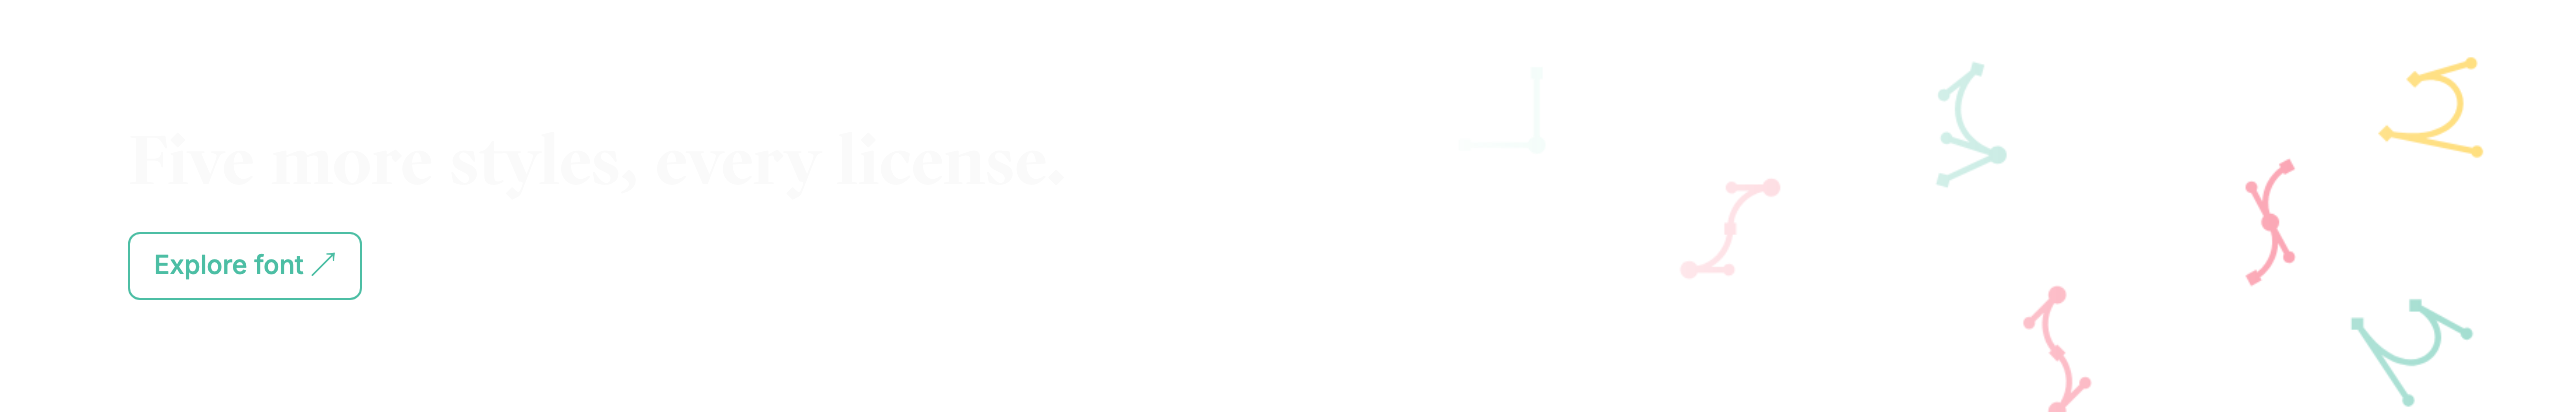
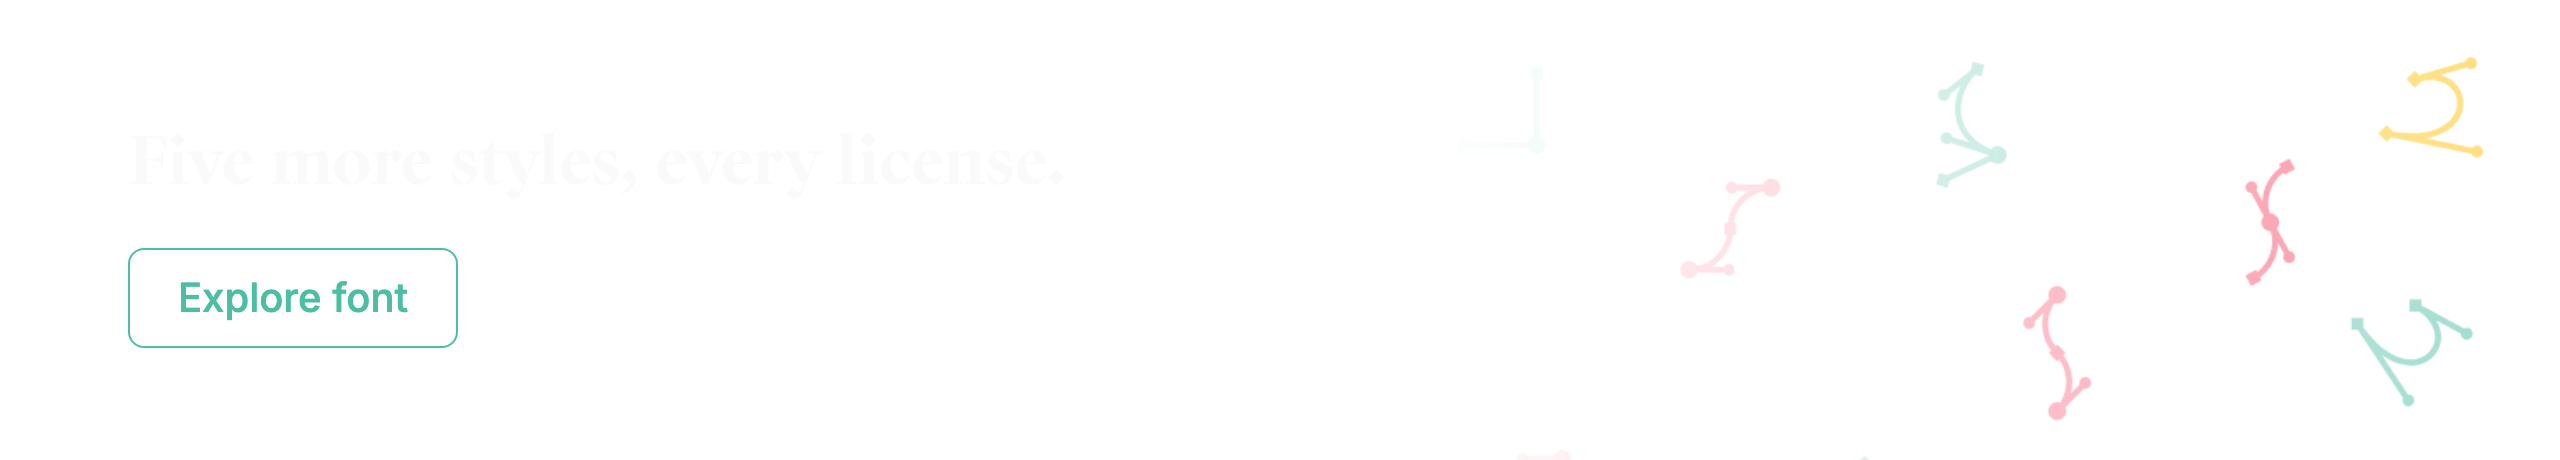
docs: drop the store-claim line and enlarge the explore button

diff --git a/README.md b/README.md
@@ -63,7 +63,7 @@ Copy `fonts/woff2/` into your site, then:
 
 ## License
 
-Free to use, not open source: Desktop and Web at the first tier are free, while higher tiers and App, Advertising, Broadcasting and OEM use are licensed at [hippopotype.com](https://hippopotype.com/fonts/fragment-grand), and the files may not be modified or passed on. The full terms are in [LICENSE.md](LICENSE.md), the same terms as [hippopotype.com/licensing](https://hippopotype.com/licensing). Claiming the styles in the store is optional; it adds a receipt and keeps the downloads in your account.
+Free to use, not open source: Desktop and Web at the first tier are free, while higher tiers and App, Advertising, Broadcasting and OEM use are licensed at [hippopotype.com](https://hippopotype.com/fonts/fragment-grand), and the files may not be modified or passed on. The full terms are in [LICENSE.md](LICENSE.md), the same terms as [hippopotype.com/licensing](https://hippopotype.com/licensing).
 
 The font files don't take pull requests, but issues about them are welcome.
 
